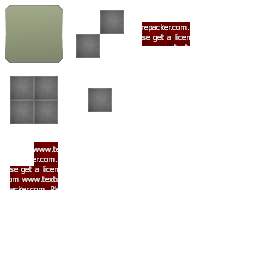
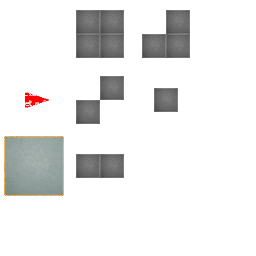
Added ScoreReader. Some bug fixes.

diff --git a/src/com/bugfullabs/qube/GameActivity.java b/src/com/bugfullabs/qube/GameActivity.java
@@ -22,10 +22,13 @@ import org.anddev.andengine.util.HorizontalAlign;
 import org.anddev.andengine.util.VerticalAlign;
 
 
+import android.content.Intent;
 import android.content.SharedPreferences;
 import android.graphics.Color;
 import android.graphics.Typeface;
 import android.util.Log;
+import android.view.KeyEvent;
+
 import com.bugfullabs.qube.level.Level;
 import com.bugfullabs.qube.level.LevelFileReader;
 import com.bugfullabs.qube.level.LevelSceneFactory;
@@ -36,6 +39,9 @@ import com.bugfullabs.qube.hud.ItemsHUD;
 
 import com.bugfullabs.qube.game.CubeEntity;
 import com.bugfullabs.qube.game.GameValues;
+import com.bugfullabs.qube.game.ScoreReader;
+import com.openfeint.api.resource.Achievement;
+import com.openfeint.api.resource.Achievement.UnlockCB;
 
 
 
@@ -371,6 +377,14 @@ public class GameActivity extends LoadingActivity{
 		this.mEngine.unregisterUpdateHandler(updateTimer);
 		
 		this.mItems.hide();
+			
+		if(ScoreReader.getStars(level) < stars){
+		ScoreReader.setStars(level, stars);
+		}
+		
+		ScoreReader.addTotalCubes(cubesFinished);
+
+		checkAchievements();
 		
 		for(int i = 1; i <= stars; i++){
 		final Sprite star = new Sprite(80+(i*128), 175, starFull);	
@@ -384,8 +398,46 @@ public class GameActivity extends LoadingActivity{
 		
 		this.mEngine.setScene(scoreScene);
 	}
-
-
+	
+	private void checkAchievements(){
+		
+		if(PrivateValues.OFAchievementMasterOfCubesValue <= ScoreReader.getTotalCubes()){
+			
+			new Achievement(PrivateValues.OFAchievementMasterOfCubes).unlock(new UnlockCB(){
+				@Override
+				public void onSuccess(boolean arg0) {
+					
+				}
+			});
+			
+		}
+		
+		if(level.getLevelId() == 15){
+			
+			new Achievement(PrivateValues.OFAchievementProjectPackFinished).unlock(new UnlockCB(){
+				@Override
+				public void onSuccess(boolean arg0) {
+					
+				}
+			});
+			
+		}
+		
+		
+		
+	}
+	
+	
+/*    @Override
+    public boolean onKeyDown(final int pKeyCode, final KeyEvent pEvent) {
+            if(pKeyCode == KeyEvent.KEYCODE_BACK && pEvent.getAction() == KeyEvent.ACTION_DOWN) {
+            		this.setIntent(new Intent(GameActivity.this, MainMenuActivity.class));
+                    return true;
+            } else {
+                    return super.onKeyDown(pKeyCode, pEvent);
+            }
+    }
+	*/
 }
 
 

diff --git a/src/com/bugfullabs/qube/game/ScoreReader.java b/src/com/bugfullabs/qube/game/ScoreReader.java
@@ -1,0 +1,66 @@
+package com.bugfullabs.qube.game;
+
+import android.app.Activity;
+import android.content.SharedPreferences;
+
+import com.bugfullabs.qube.level.Level;
+
+
+
+
+public class ScoreReader{
+
+	private static String mFilename;
+	
+	private static SharedPreferences score;
+	
+	private static SharedPreferences.Editor scoreEditor;
+	
+	public static void setFilename(Activity a, String pName){
+		mFilename = pName;
+		
+		score = a.getSharedPreferences(pName, 0);
+		scoreEditor = score.edit();
+	}
+	
+	public static void setScore(Level level, int score){
+		
+		scoreEditor.putInt(Integer.toString(level.getLevelpackId()) + Integer.toString(level.getLevelId()) + "score", score);
+		scoreEditor.commit();
+	}
+	
+	public static void setStars(Level level, int stars){
+		
+		scoreEditor.putInt(Integer.toString(level.getLevelpackId()) + Integer.toString(level.getLevelId()) + "stars", stars);
+		scoreEditor.commit();
+	}
+	
+	public static int getScore(Level level){
+		
+		return score.getInt(Integer.toString(level.getLevelpackId()) + Integer.toString(level.getLevelId()) + "score", 0);
+		
+	}
+	
+	public static String getFile(){
+		return mFilename;
+	}
+	
+	public static int getStars(Level level){
+		
+		return score.getInt(Integer.toString(level.getLevelpackId()) + Integer.toString(level.getLevelId()) + "stars", 0);
+		
+	}
+	
+	public static void addTotalCubes(int value){
+		
+		scoreEditor.putInt("TotalCubes", score.getInt("TotalCubes", 0) + value);
+		
+	}
+
+	public static int getTotalCubes() {
+
+		return score.getInt("TotalCubes", 0);
+	}
+	
+	
+}

diff --git a/src/com/bugfullabs/qube/hud/ItemsHUD.java b/src/com/bugfullabs/qube/hud/ItemsHUD.java
@@ -14,7 +14,9 @@ public class ItemsHUD extends HUD{
 	public static final int BUTTON_NUMBER = 5;
 	public static final int BUTTON_PADDING = 8;
 
-	public static final int ID_STAR = 1;
+
+	public static final int PLAY_ID = 7;
+	
 	
 	private SpriteButton mButtons[];
 	private SpriteButton playButton;
@@ -46,7 +48,7 @@ public class ItemsHUD extends HUD{
 			
 		}
 		
-		playButton = new SpriteButton(this, 275, 405, HUDTexturePack.getTexturePackTextureRegionLibrary().get(0), HUDTexturePack.getTexturePackTextureRegionLibrary().get(ID_STAR)){
+		playButton = new SpriteButton(this, 730, (BUTTON_NUMBER)*(ItemsHUD.BUTTON_PADDING+64), HUDTexturePack.getTexturePackTextureRegionLibrary().get(PLAY_ID), HUDTexturePack.getTexturePackTextureRegionLibrary().get(0)){
 			
 			@Override
 			public void onButtonPressed(){

diff --git a/src/com/bugfullabs/qube/MainMenuActivity.java b/src/com/bugfullabs/qube/MainMenuActivity.java
@@ -9,6 +9,7 @@ import org.anddev.andengine.opengl.texture.atlas.bitmap.BitmapTextureAtlas;
 import org.anddev.andengine.opengl.texture.atlas.bitmap.BitmapTextureAtlasTextureRegionFactory;
 import org.anddev.andengine.opengl.texture.region.TextureRegion;
 
+import com.bugfullabs.qube.game.ScoreReader;
 import com.bugfullabs.qube.util.Button;
 import com.bugfullabs.qube.util.SpriteButton;
 import com.openfeint.api.OpenFeint;
@@ -56,6 +57,7 @@ public class MainMenuActivity extends LoadingActivity{
 		
 	    OpenFeintSettings OFSettings = new OpenFeintSettings(PrivateValues.OFName, PrivateValues.OFKey, PrivateValues.OFSecret, PrivateValues.OFId);
 	    OpenFeint.initializeWithoutLoggingIn(this, OFSettings, new OpenFeintDelegate(){});	
+	    ScoreReader.setFilename(this, "Score");
 	}
 	
 	

diff --git a/src/com/bugfullabs/qube/LevelSelectActivity.java b/src/com/bugfullabs/qube/LevelSelectActivity.java
@@ -296,7 +296,10 @@ public class LevelSelectActivity extends BaseGameActivity implements IScrollDete
     	  
     	  final Level level = this.LevelReader.getLevel();
     	  
-    	  GameActivity.setLevel(level);  
+    	  GameActivity.setLevel(level); 
+    	  
+    	  //this.setIntent(new Intent(this, GameActivity.class));
+    	  
     	  this.startActivity(new Intent(this, GameActivity.class));
     	  this.finish();  
       }
